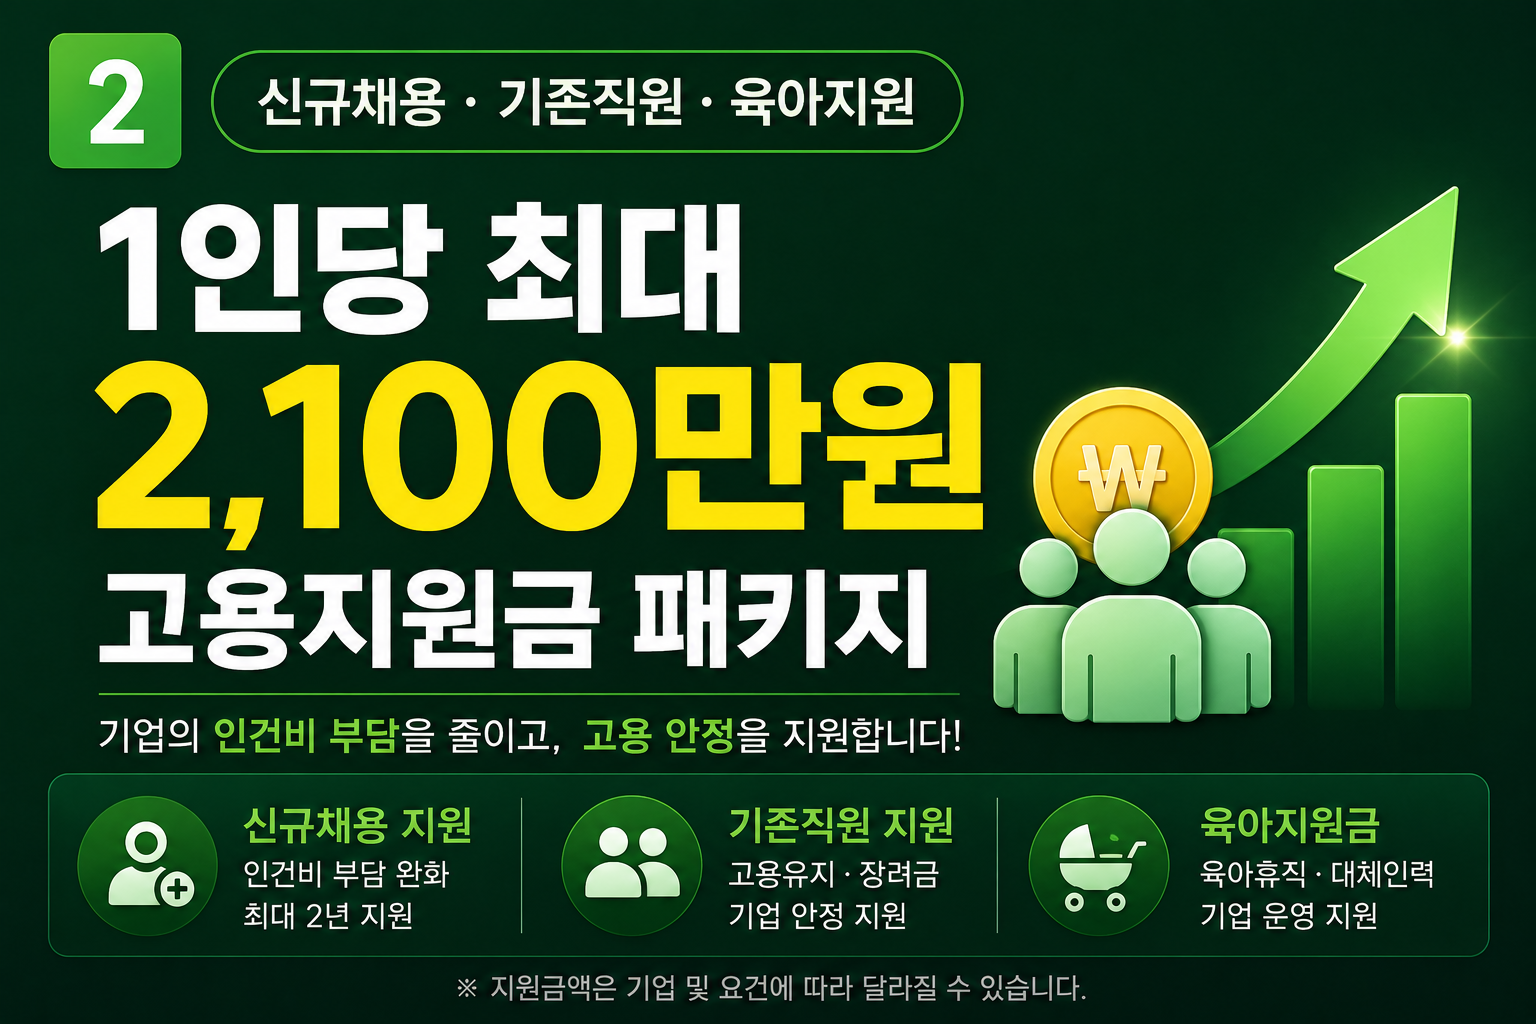
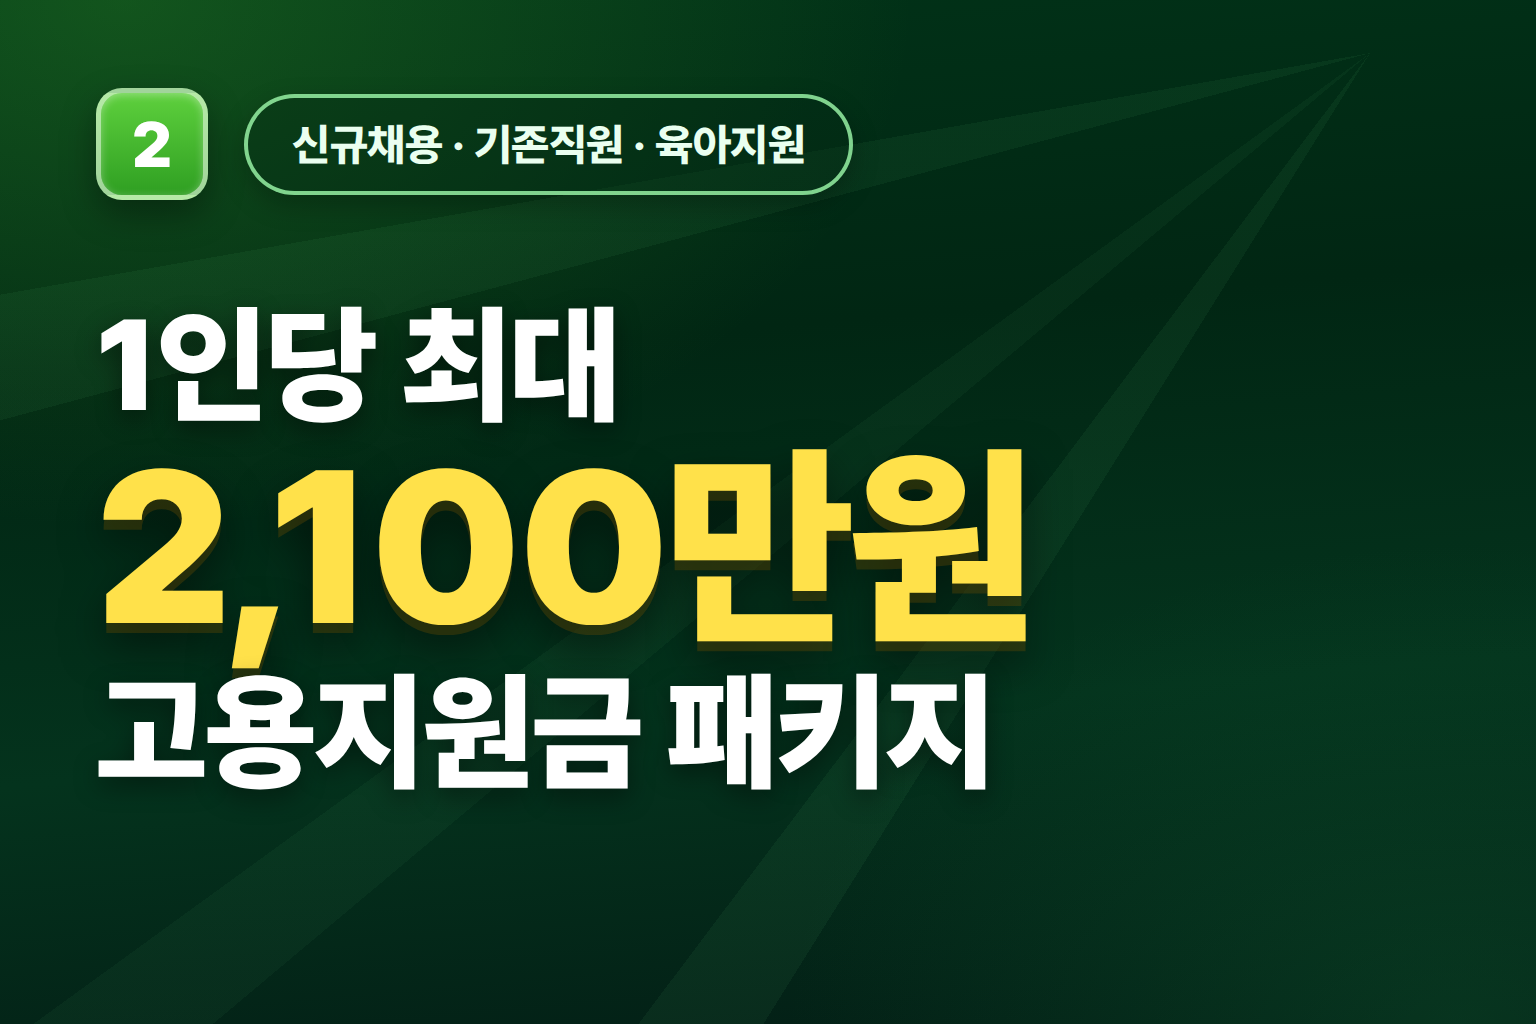
프로필 원형 아바타로 전환·확대 + 고용지원금 썸네일 단순화
- Hero 대형 포트레이트 제거(대표·컨설턴트) → 원형 아바타 방식으로 통일하고 크게
  · 대표 페이지 신뢰블록: 96px 앰버 링 아바타
  · 컨설턴트 Hero: 80px 스카이 링 아바타 + '미래 AI 랩 대표 · 김팀장의 경영노트' 라벨
  · 미사용 ceo-portrait.webp 삭제
- 고용지원금 썸네일 재제작: 숫자 2 배지 + '신규채용·기존직원·육아지원' 필 +
  '1인당 최대 2,100만원 고용지원금 패키지' 3줄만 남기고 하단 안내줄·아이콘 3종·우측 그래픽 제거
  (원본 팔레트 유지, Pretendard 렌더링, 1536x1024)

Claude-Session: https://claude.ai/code/session_0127QvWRVvHFDHQbBmPVBCzc

diff --git a/src/App.tsx b/src/App.tsx
@@ -244,16 +244,6 @@ function App() {
         <div aria-hidden className="pointer-events-none absolute inset-0" style={gridBackground} />
         <div aria-hidden className="pointer-events-none absolute -left-32 -top-40 h-96 w-96 rounded-full bg-blue-600/25 blur-3xl" />
         <div aria-hidden className="pointer-events-none absolute -bottom-40 right-0 h-[26rem] w-[26rem] rounded-full bg-sky-500/20 blur-3xl" />
-        {/* 제작자 프로필 — 우측에 은은하게 (장식용, 텍스트 뒤 레이어) */}
-        <img
-          src="/assets/profile/ceo-portrait.webp"
-          alt=""
-          aria-hidden
-          loading="lazy"
-          decoding="async"
-          className="pointer-events-none absolute bottom-0 right-4 hidden w-[16rem] select-none opacity-80 saturate-[.92] [mask-image:linear-gradient(to_top,transparent_0,black_20%)] lg:block xl:right-14 xl:w-[20rem]"
-        />
-
         <div className="relative mx-auto max-w-6xl px-6 pb-16 pt-16 lg:pb-20 lg:pt-20">
           <div className="max-w-3xl">
             <div>
@@ -303,7 +293,21 @@ function App() {
                   </div>
                 ))}
               </dl>
-              <p className="mt-4 text-sm text-slate-400">제가 직접 쓰지 않는 도구는 만들지 않습니다. 현업에서 검증한 도구만 공개합니다.</p>
+              <div className="mt-5 flex items-center gap-3.5">
+                <img
+                  src="/assets/profile/ceo-avatar.webp"
+                  alt="미래 AI 랩 대표 프로필 사진"
+                  loading="lazy"
+                  decoding="async"
+                  width={200}
+                  height={200}
+                  className="h-16 w-16 shrink-0 rounded-full object-cover shadow-lg shadow-black/40 ring-[3px] ring-sky-400/50 sm:h-20 sm:w-20"
+                />
+                <div className="min-w-0">
+                  <p className="text-sm leading-relaxed text-slate-400 sm:text-base">제가 직접 쓰지 않는 도구는 만들지 않습니다. 현업에서 검증한 도구만 공개합니다.</p>
+                  <p className="mt-1 text-sm font-bold text-slate-200">미래 AI 랩 대표 · 김팀장의 경영노트</p>
+                </div>
+              </div>
             </div>
           </div>
         </div>

diff --git a/src/pages/BusinessServicesPage.tsx b/src/pages/BusinessServicesPage.tsx
@@ -262,15 +262,6 @@ export default function BusinessServicesPage() {
       <section className="relative overflow-hidden bg-slate-900">
         <div aria-hidden className="pointer-events-none absolute -left-20 -top-24 h-72 w-72 rounded-full bg-blue-600/20 blur-3xl" />
         <div aria-hidden className="pointer-events-none absolute -bottom-24 right-0 h-72 w-72 rounded-full bg-amber-500/10 blur-3xl" />
-        {/* 대표 프로필 — 우측 하단에 은은하게 (장식용, 텍스트 뒤 레이어) */}
-        <img
-          src="/assets/profile/ceo-portrait.webp"
-          alt=""
-          aria-hidden
-          loading="lazy"
-          decoding="async"
-          className="pointer-events-none absolute bottom-0 right-3 hidden w-[17rem] select-none opacity-80 saturate-[.92] [mask-image:linear-gradient(to_top,transparent_0,black_20%)] xl:block 2xl:right-10 2xl:w-[19rem]"
-        />
         <div className="relative mx-auto max-w-6xl px-5 py-11 sm:px-6 sm:py-14">
           <span className="inline-flex items-center gap-2 rounded-full border border-white/15 bg-white/5 px-3.5 py-1.5 text-[0.8rem] font-semibold text-slate-200 backdrop-blur">
             <span className="h-2 w-2 rounded-full bg-amber-400" />
@@ -326,7 +317,7 @@ export default function BusinessServicesPage() {
                 decoding="async"
                 width={200}
                 height={200}
-                className="h-14 w-14 shrink-0 rounded-full object-cover ring-2 ring-amber-400/50 sm:h-16 sm:w-16"
+                className="h-20 w-20 shrink-0 rounded-full object-cover shadow-lg shadow-black/30 ring-[3px] ring-amber-400/60 sm:h-24 sm:w-24"
               />
               <div className="min-w-0">
               <p className="text-[1.1rem] font-semibold leading-relaxed text-slate-100">
